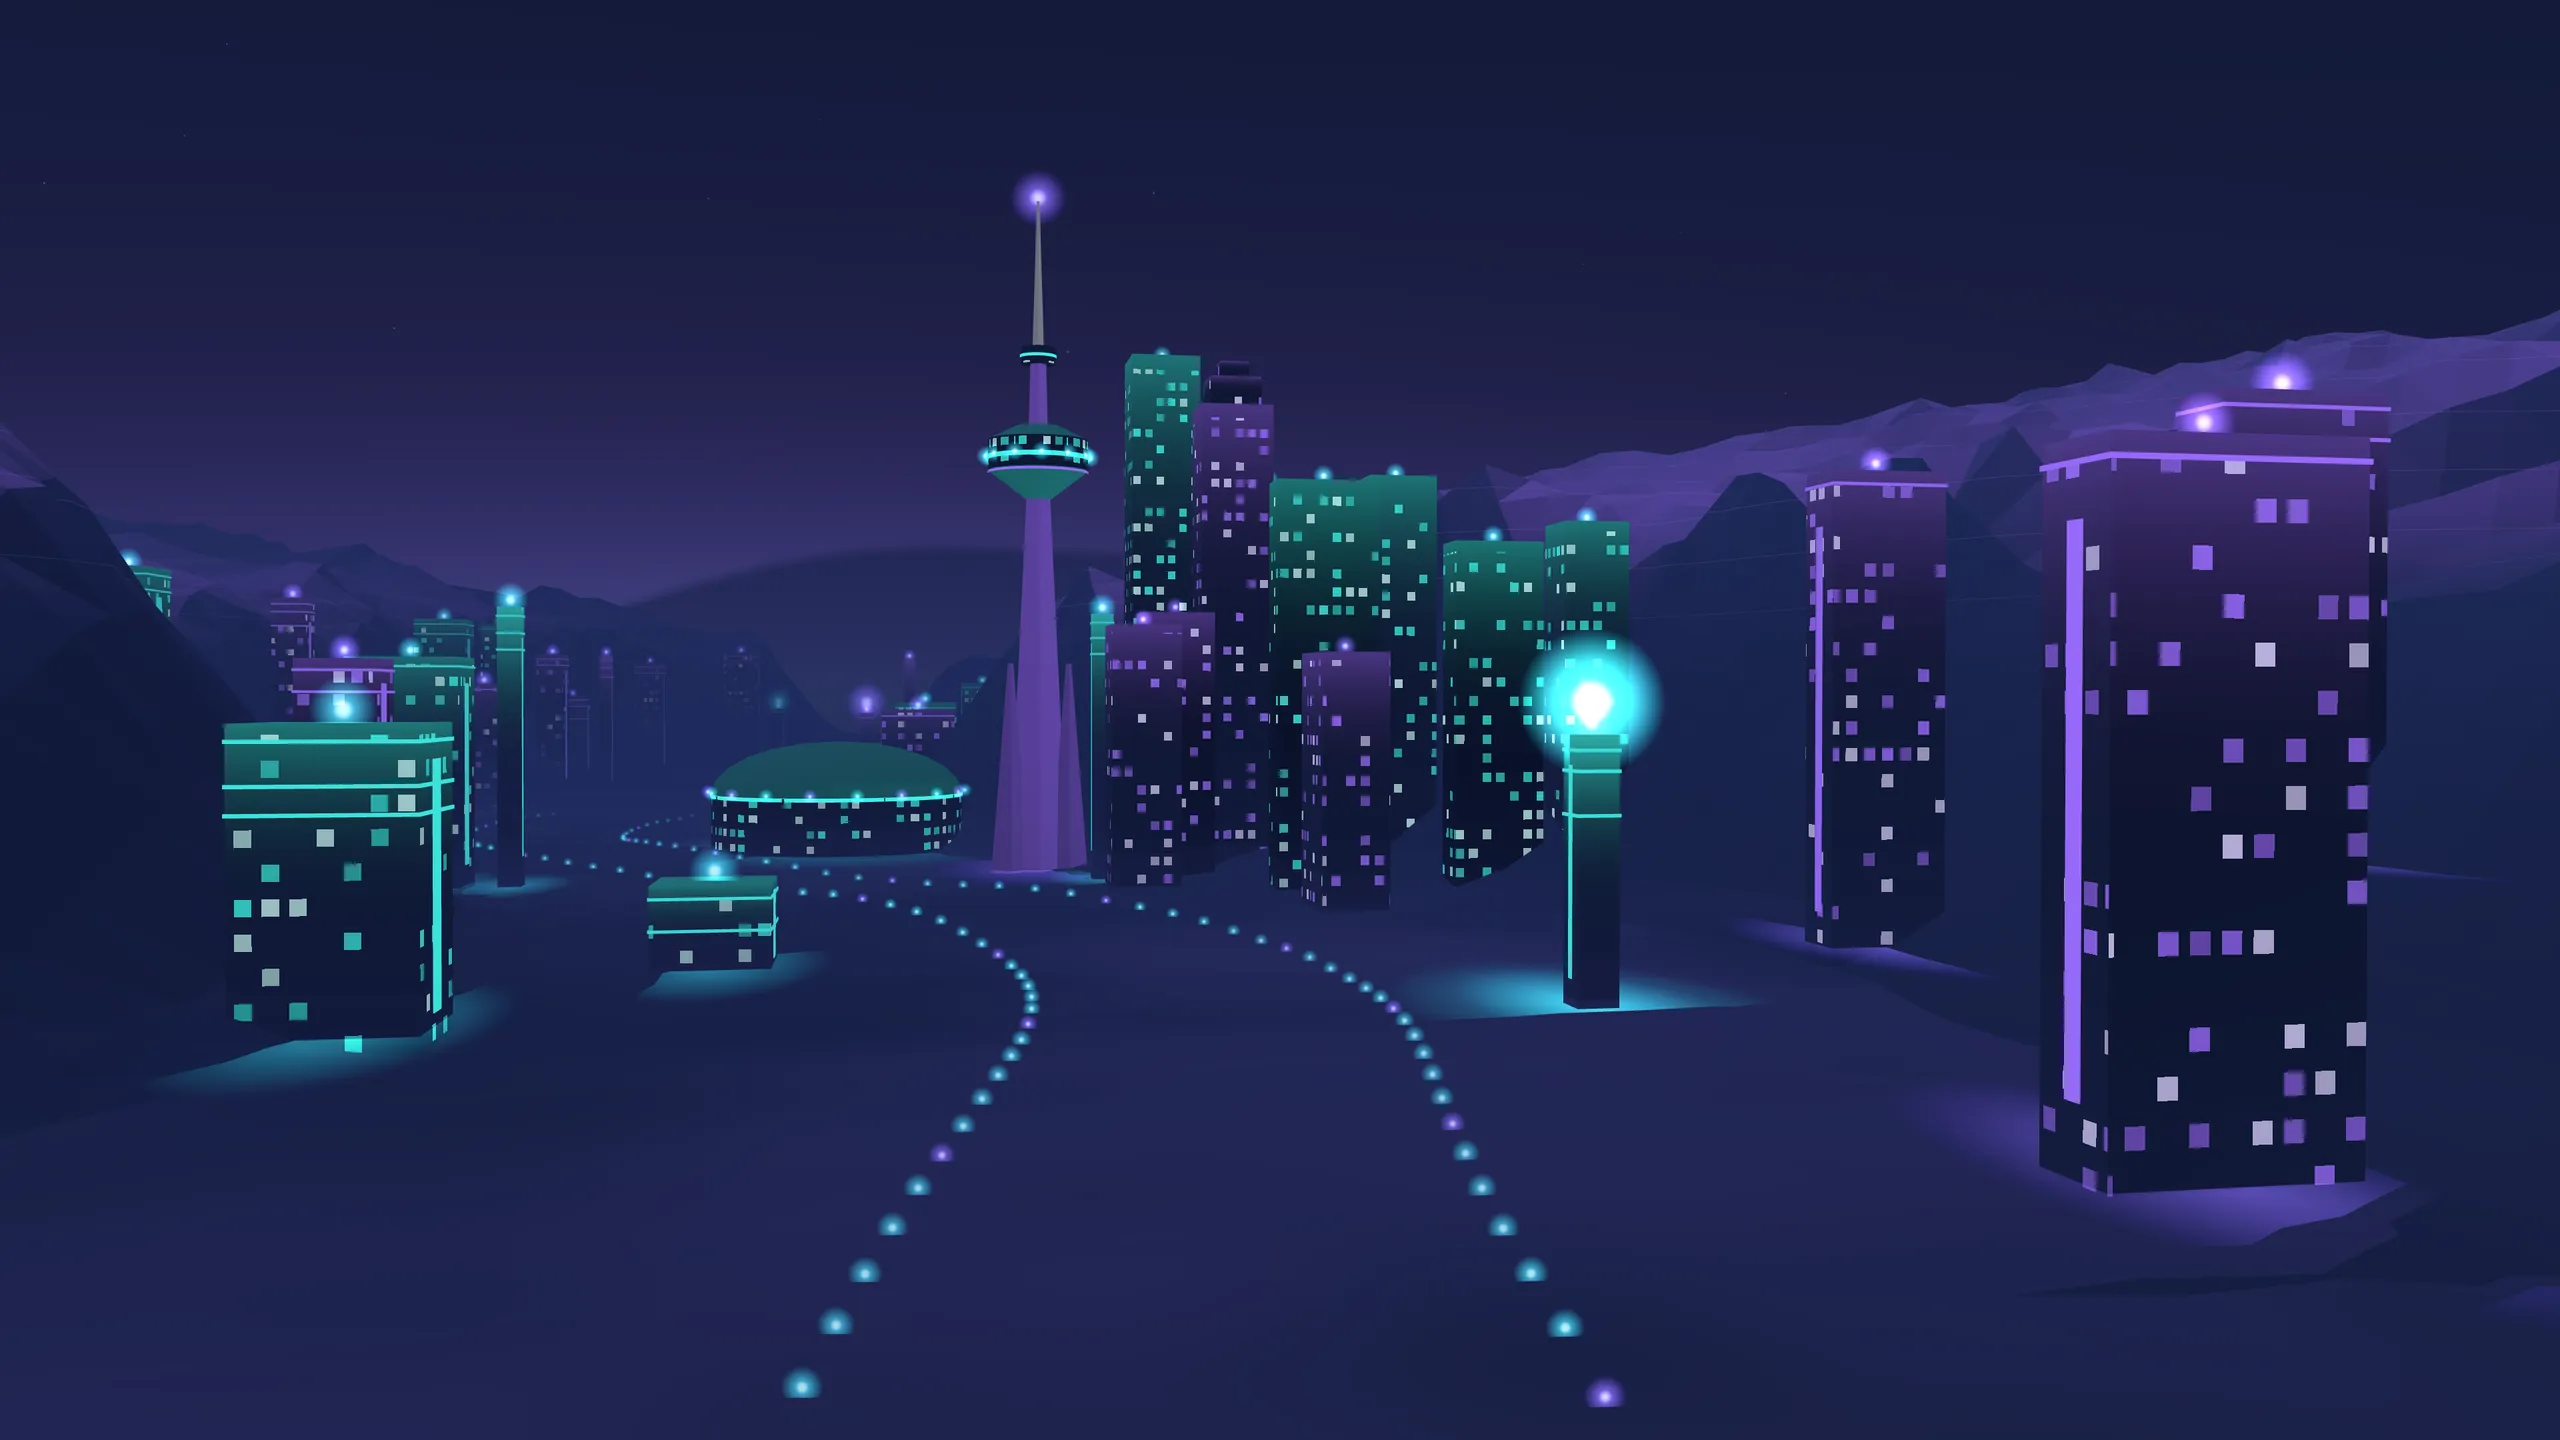
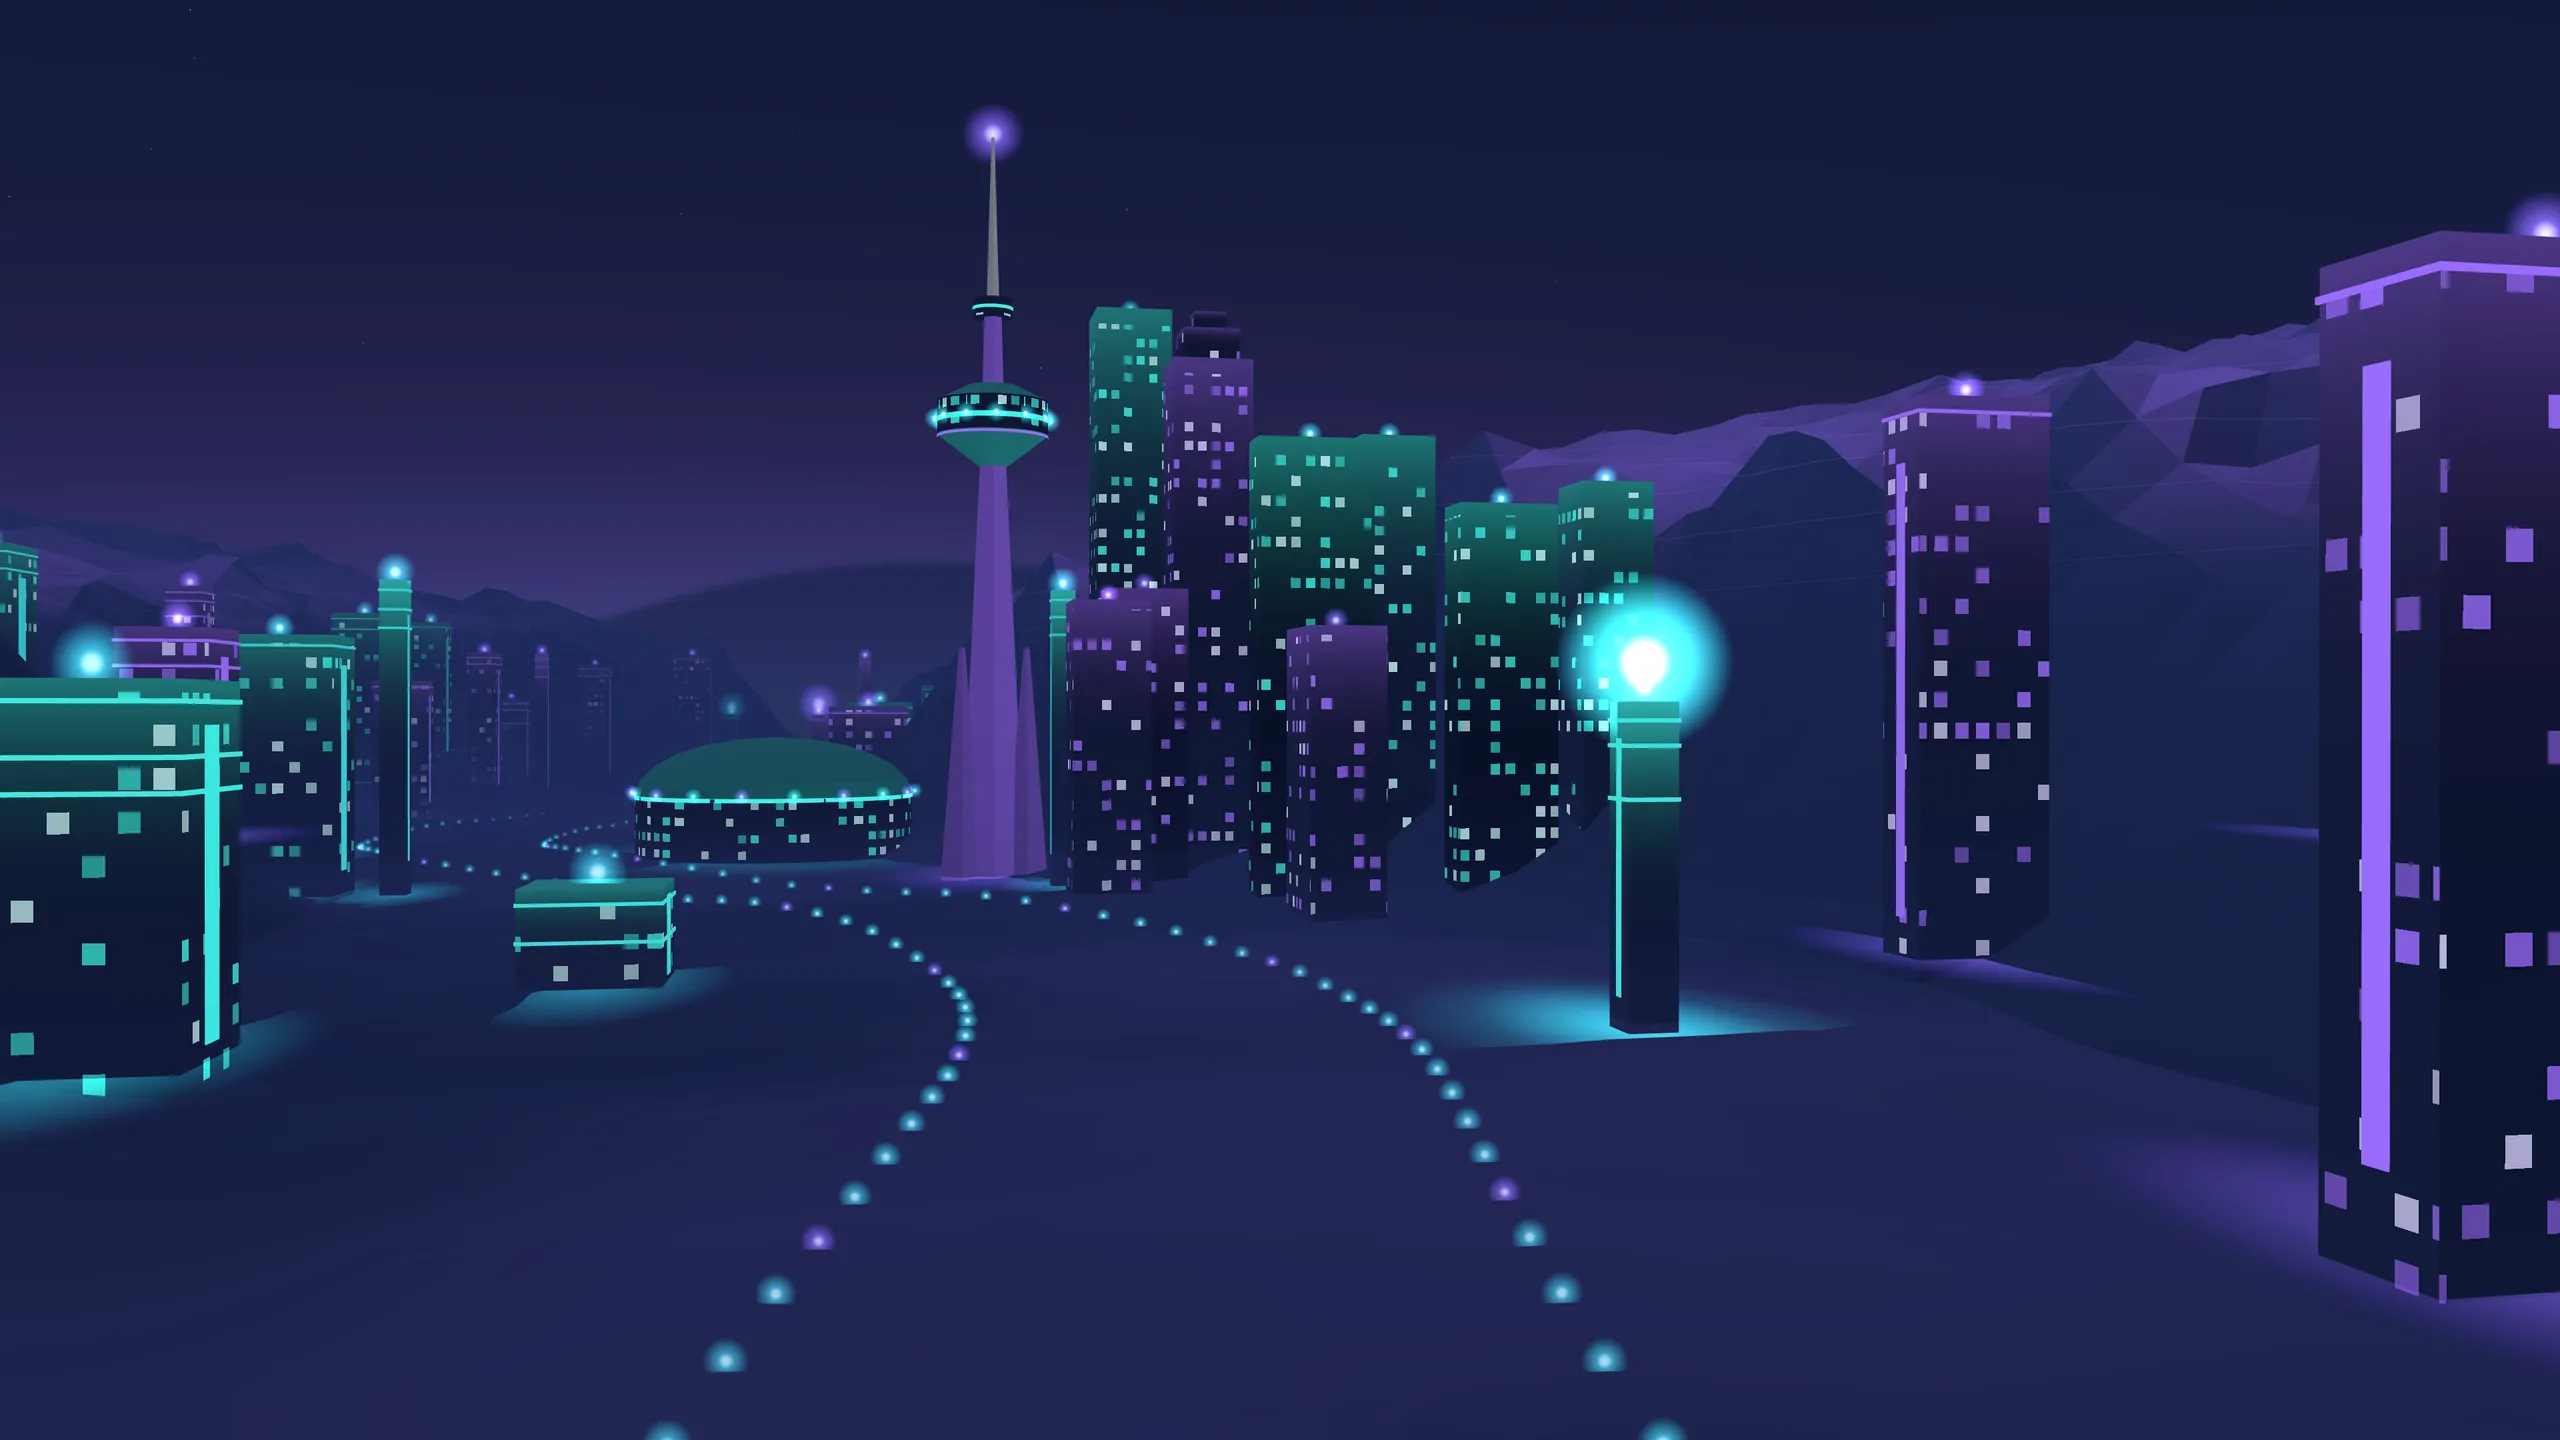
Review fixes: a tablet-sized portrait still, the alt from its heading
The portrait backdrop now goes to 2048 wide, so a portrait iPad at 2x
isn't upscaled. The Resume card's alt text takes its title from the
heading, as the caption does, and the backdrop's comment no longer
claims motes the still doesn't have.

Claude-Session: https://claude.ai/code/session_014kTD9UfpEYgL4bo4B3M2Re

diff --git a/src/content/site.ts b/src/content/site.ts
@@ -131,7 +131,6 @@ export type ShareCard = {
   caption?: { eyebrow?: string; title: string };
 };
 
-
 export const nav = [
   { label: "Work", href: "/#work" },
   { label: "Resume", href: "/resume" },
@@ -574,7 +573,7 @@ export const shareCards = {
     title: resume.metaTitle,
     description: resume.metaDescription,
     image: "/share/resume.png",
-    imageAlt: `${settledFrameAlt} Captioned "Resume".`,
+    imageAlt: `${settledFrameAlt} Captioned "${resume.heading}".`,
     caption: { title: resume.heading },
   },
   "juice-bros": {
@@ -590,14 +589,14 @@ export const shareCards = {
 /**
  * The quieter world behind every route but home: stills of the valley, drawn
  * by scripts/share-stills.mjs, landscape up to a 4K screen and portrait for
- * phones.
+ * phones and tablets.
  */
 export const backdrop = {
   landscape: [1280, 1920, 2560, 3840].map((width) => ({
     src: `/world/backdrop-${width}.webp`,
     width,
   })),
-  portrait: [645, 1290].map((width) => ({
+  portrait: [645, 1290, 2048].map((width) => ({
     src: `/world/backdrop-portrait-${width}.webp`,
     width,
   })),

diff --git a/src/app/share.test.ts b/src/app/share.test.ts
@@ -105,7 +105,7 @@ describe("link previews", () => {
 });
 
 describe("the night backdrop", () => {
-  it("has landscape stills up to 3840 wide (2560 at 1.5x, a 4K TV at 1x) and portrait ones for phones", () => {
+  it("has landscape stills up to 3840 wide (2560 at 1.5x, a 4K TV at 1x) and portrait ones for phones and tablets", () => {
     for (const still of [...backdrop.landscape, ...backdrop.portrait]) {
       expect(webpSize(publicFile(still.src)).width, still.src).toBe(still.width);
     }
@@ -115,7 +115,7 @@ describe("the night backdrop", () => {
       expect(size.width / size.height).toBeCloseTo(16 / 9, 1);
     }
     const portrait = backdrop.portrait.map((s) => webpSize(publicFile(s.src)));
-    expect(Math.max(...portrait.map((s) => s.width))).toBeGreaterThanOrEqual(1290);
+    expect(Math.max(...portrait.map((s) => s.width))).toBeGreaterThanOrEqual(2048);
     for (const size of portrait) expect(size.height).toBeGreaterThan(size.width);
   });
 });

diff --git a/src/components/world-backdrop.tsx b/src/components/world-backdrop.tsx
@@ -35,7 +35,7 @@ const MOTES = (() => {
 /**
  * The quieter night behind every route but home: a still of the valley,
  * dimmed so the page reads over it, with motes drifting across (none under
- * reduced motion, where the still's own motes stand as scenery). Held fixed
+ * reduced motion, where the still stands alone). Held fixed
  * behind the page: its parent sets the stacking context it sits at the back
  * of, over the body's sky.
  */
